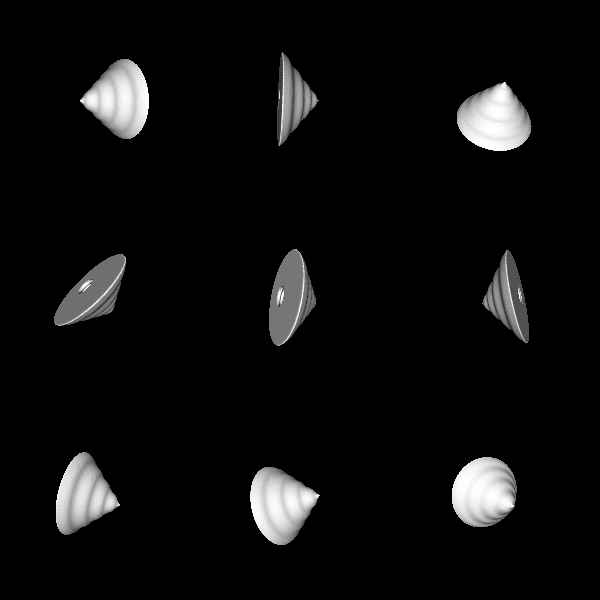
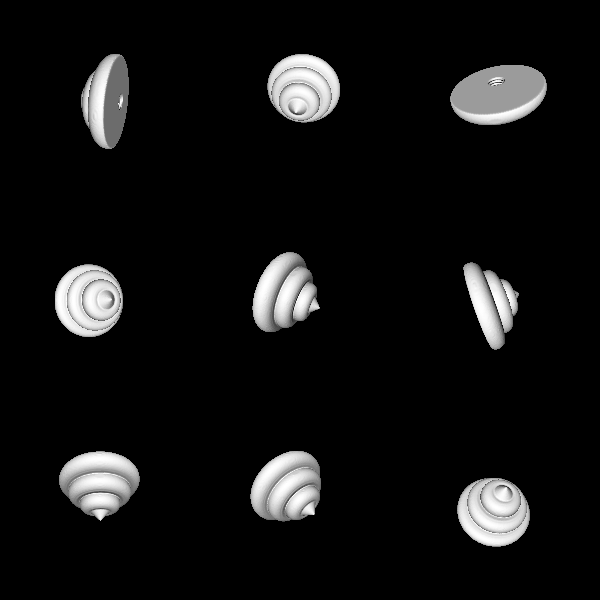
better looking poop mesh

diff --git a/examples/usable/poop_flag/main.go b/examples/usable/poop_flag/main.go
@@ -1,7 +1,7 @@
 package main
 
 import (
-	"math"
+	"log"
 
 	"github.com/unixpickle/model3d/toolbox3d"
 
@@ -9,14 +9,12 @@ import (
 )
 
 const (
-	Radius     = 1.2
-	Height     = 1.2
-	RippleRate = math.Pi * 7
-	RippleSize = 0.02
+	Radius = 1.2
+	Height = Radius
 
 	ScrewRadius     = 0.3
 	ScrewGrooveSize = 0.05
-	ScrewSlack      = 0.03
+	ScrewSlack      = 0.04
 
 	SteakHeight = 3.0
 )
@@ -32,15 +30,19 @@ func main() {
 		Solid:  screw,
 		Center: model3d.Coord3D{Z: Height / 2},
 	}
+
+	log.Println("Building poop solid...")
 	poop := &model3d.SubtractedSolid{
-		Positive: PoopSolid{},
+		Positive: PoopSolid(),
 		Negative: pointedScrew,
 	}
 
-	mesh := model3d.SolidToMesh(poop, 0.02, 1, -1, 10)
+	log.Println("Building poop mesh...")
+	mesh := model3d.SolidToMesh(poop, 0.01, 0, -1, 10)
 	mesh.SaveGroupedSTL("poop.stl")
 	model3d.SaveRandomGrid("rendering.png", model3d.MeshToCollider(mesh), 3, 3, 200, 200)
 
+	log.Println("Building steak mesh...")
 	screw.P1, screw.P2 = screw.P2, screw.P1
 	screw.Radius -= ScrewSlack
 	mesh = model3d.SolidToMesh(pointedScrew, 0.01, 0, -1, 10)
@@ -48,24 +50,80 @@ func main() {
 	model3d.SaveRandomGrid("steak.png", model3d.MeshToCollider(mesh), 3, 3, 200, 200)
 }
 
-type PoopSolid struct{}
-
-func (p PoopSolid) Min() model3d.Coord3D {
-	return model3d.Coord3D{X: -Radius, Y: -Radius}
-}
-
-func (p PoopSolid) Max() model3d.Coord3D {
-	return model3d.Coord3D{X: Radius, Y: Radius, Z: Height}
-}
-
-func (p PoopSolid) Contains(c model3d.Coord3D) bool {
-	if c.Min(p.Min()) != p.Min() || c.Max(p.Max()) != p.Max() {
-		return false
+func PoopSolid() model3d.Solid {
+	tip := &PointedSolid{
+		Solid: &model3d.RectSolid{
+			MinVal: model3d.Coord3D{Z: Radius * 0.85, X: -Radius * 0.3, Y: -Radius * 0.3},
+			MaxVal: model3d.Coord3D{Z: Radius * 1.15, X: Radius * 0.3, Y: Radius * 0.3},
+		},
+		Center: model3d.Coord3D{Z: Radius * 1.15},
 	}
-	radius := (model3d.Coord2D{X: c.X, Y: c.Y}).Norm()
-	ripple := RippleSize * math.Sin(radius*RippleRate)
-	maxHeight := Height - (radius*Height/Radius + ripple)
-	return c.Z < maxHeight
+	constructed := model3d.JoinedSolid{
+		tip,
+		&model3d.CylinderSolid{
+			P1:     model3d.Coord3D{Z: -Radius * 0.25},
+			P2:     model3d.Coord3D{Z: Radius * 0.25},
+			Radius: Radius,
+		},
+		&model3d.TorusSolid{
+			Axis:        model3d.Coord3D{Z: 1},
+			OuterRadius: Radius,
+			InnerRadius: 0.25 * Radius,
+		},
+		&model3d.TorusSolid{
+			Center:      model3d.Coord3D{Z: Radius * 0.35},
+			Axis:        model3d.Coord3D{Z: 1},
+			OuterRadius: Radius * 0.7,
+			InnerRadius: 0.25 * Radius,
+		},
+		&model3d.TorusSolid{
+			Center:      model3d.Coord3D{Z: Radius * 0.65},
+			Axis:        model3d.Coord3D{Z: 1},
+			OuterRadius: Radius * 0.35,
+			InnerRadius: 0.25 * Radius,
+		},
+	}
+	mesh := model3d.SolidToMesh(constructed, 0.011, 0, -1, 5)
+	for i := 0; i < 5; i++ {
+		log.Printf("- lasso solid %d/5...", i)
+		mesh = mesh.LassoSolid(constructed, 0.005, 4, 100, 0.2)
+	}
+
+	// Remove internal gaps, leaving only the external shell.
+	topTriangle := &model3d.Triangle{}
+	mesh.Iterate(func(t *model3d.Triangle) {
+		if t.Max().Z > topTriangle.Max().Z {
+			topTriangle = t
+		}
+	})
+	searched := map[*model3d.Triangle]bool{topTriangle: true}
+	toSearch := []*model3d.Triangle{topTriangle}
+	for len(toSearch) > 0 {
+		t := toSearch[0]
+		toSearch = toSearch[1:]
+		for _, n := range mesh.Neighbors(t) {
+			if !searched[n] {
+				searched[n] = true
+				toSearch = append(toSearch, n)
+			}
+		}
+	}
+	mesh.Iterate(func(t *model3d.Triangle) {
+		if !searched[t] {
+			mesh.Remove(t)
+		}
+	})
+
+	// Clip off bottom to remove need for supports, and
+	// to avoid a rough surface that occurs due to
+	// rounding.
+	return &model3d.SubtractedSolid{
+		Positive: model3d.NewColliderSolid(model3d.MeshToCollider(mesh)),
+		Negative: &model3d.RectSolid{
+			MinVal: model3d.Coord3D{X: -Radius * 2, Y: -Radius * 2, Z: -Radius * 0.3},
+			MaxVal: model3d.Coord3D{X: Radius * 2, Y: Radius * 2, Z: -Radius * 0.15},
+		},
+	}
 }
 
 type PointedSolid struct {
